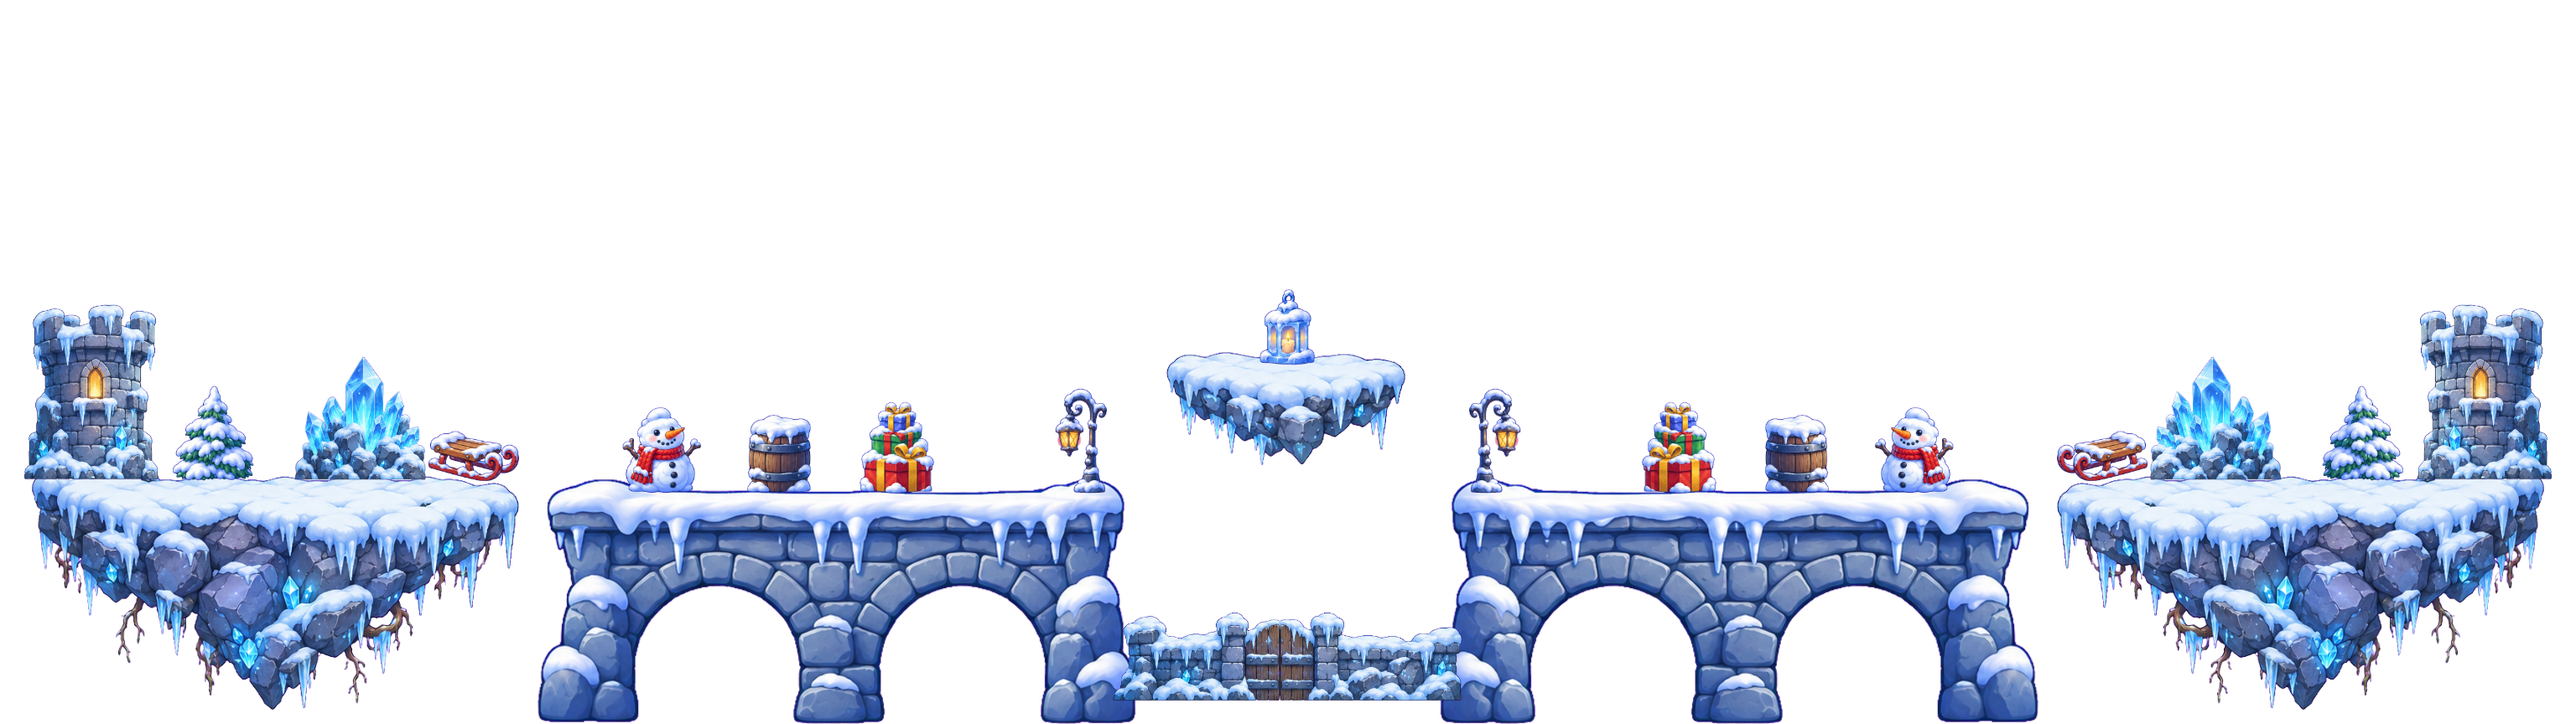
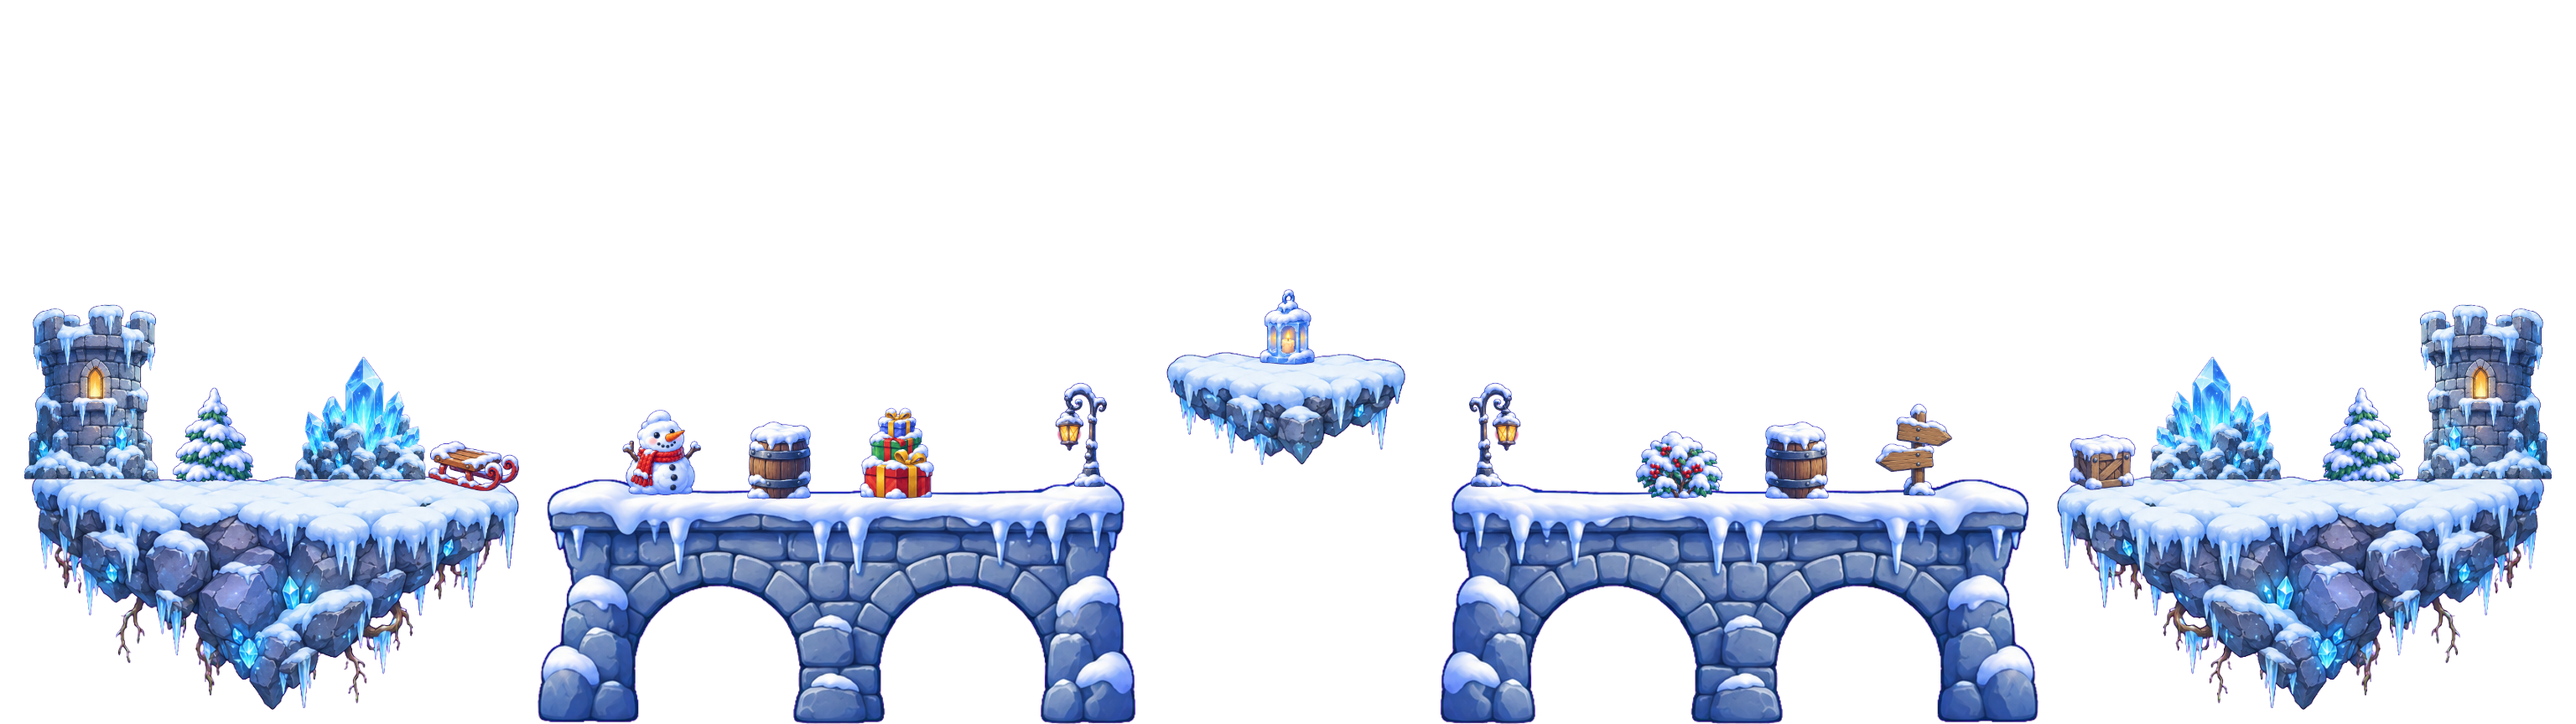
Mapas: fundo nunca repete, objetos assentam no chão e validador de layout
Claude-Session: https://claude.ai/code/session_01Qghigksom72nNn7R5uKPfk

diff --git a/src/game/environment.ts b/src/game/environment.ts
@@ -280,20 +280,19 @@ export class EnvironmentRenderer {
   if(this.definition.id==='celestial')for(let i=0;i<count(2,3,4);i++)this.cloud(c,-100+((i*491+time*.012)%(W+400)),865+i%3*15,230,.62,1.12);
   c.restore();c.save();applyCamera(c,camera,.85);this.atmosphere(c,time);c.restore();
  }
- /** A single painted backdrop, cover-fitted to the bottom edge so its abyss sits under the playfield. It barely drifts with the camera. */
+ /** One painted backdrop, never tiled or repeated: fitted to the bottom edge so its abyss sits under the playfield.
+  * A wide panorama scrolls at the depth that shows it exactly once across the map; a narrow one barely drifts. */
  private drawBackdrop(c:CanvasRenderingContext2D,camera:CameraState){
-  const image=this.art,margin=48,depth=.1;if(!image.naturalWidth)return;
-  const travel=(this.width-W)*depth,layer=this.cached('backdrop',W+travel+margin*2,H+margin*2,ctx=>{const width=W+travel+margin*2,scale=Math.max(width/image.naturalWidth,(H+margin*2)/image.naturalHeight),height=image.naturalHeight*scale;smoothImages(ctx);ctx.drawImage(image,(width-image.naturalWidth*scale)/2,H+margin*2-height,image.naturalWidth*scale,height);});
-  c.save();applyCamera(c,camera,depth);c.drawImage(layer,-margin,-margin);c.restore();
-  const mid=this.mid;
-  if(mid?.naturalWidth){
-   // Painted mid-distance band, tiled across the world, between backdrop and terrain.
-   const midDepth=.5,height=H,width=mid.naturalWidth*height/mid.naturalHeight,tile=this.cached('mid',width,height,ctx=>{smoothImages(ctx);ctx.drawImage(mid,0,0,width,height);});
-   c.save();applyCamera(c,camera,midDepth);const view=cameraBounds(camera,midDepth);
-   // Every other copy is mirrored, so neighbouring edges always match.
-   for(let x=Math.floor(view.x/width)*width;x<view.x+view.width;x+=width){if(Math.round(x/width)%2){c.save();c.translate(x+width,MID_OFFSET);c.scale(-1,1);c.drawImage(tile,0,0);c.restore();}else c.drawImage(tile,x,MID_OFFSET);}c.restore();
-  }
+  this.drawOnce(c,camera,'backdrop',this.art,0);
+  const mid=this.mid;if(mid)this.drawOnce(c,camera,'mid',mid,MID_OFFSET);
   c.save();c.fillStyle=`rgba(7,13,24,${PARALLAX_SHADE_ALPHA})`;c.fillRect(0,0,W,H);c.restore();
+ }
+ private drawOnce(c:CanvasRenderingContext2D,camera:CameraState,key:string,image:HTMLImageElement,offset:number){
+  if(!image.naturalWidth)return;
+  const margin=48,span=this.width-W,fit=(H+margin*2)/image.naturalHeight,natural=image.naturalWidth*fit-W-margin*2;
+  const depth=span>0?Math.min(1,Math.max(.1,natural/span)):.1,travel=span*depth,width=W+travel+margin*2;
+  const layer=this.cached(key,width,H+margin*2,ctx=>{const scale=Math.max(fit,width/image.naturalWidth),height=image.naturalHeight*scale;smoothImages(ctx);ctx.drawImage(image,(width-image.naturalWidth*scale)/2,H+margin*2-height,image.naturalWidth*scale,height);});
+  c.save();applyCamera(c,camera,depth);c.drawImage(layer,-margin,offset-margin);c.restore();
  }
  private drawLoading(c:CanvasRenderingContext2D){
   c.save();c.globalAlpha=1;c.fillStyle=this.definition.lighting.sky;c.fillRect(0,0,W,H);

diff --git a/docs/maps-kit.md b/docs/maps-kit.md
@@ -5,8 +5,8 @@ Primeiro mapa feito assim: `snow` / Sonho Nevado (17/10/2026). Plano completo em
 ## Como funciona
 
 - **Largura**: um mapa pode ter mais de uma tela (`dimensions.width`, `width` no layout; o Sonho Nevado tem 3072 px, duas telas). A altura é sempre 864. A câmera rola, o minimapa fica largo e baixo, e a física lê a largura do próprio terreno. Spawns de 1x1 ficam entre 900 e 1200 px de distância (teste).
-- **Fundo**: uma imagem grande e fixa (`art.background`), que não colide. Substitui o céu, a paisagem e o meio procedurais e quase não se move com a câmera.
-- **Meio** (opcional, `art.mid`, `mid` no layout): faixa pintada sobre magenta, repetida e espelhada pela largura do mundo a meia velocidade da câmera.
+- **Fundo**: uma imagem única (`art.background`), que não colide e **nunca se repete**. Em mapa largo ela é um panorama pintado em duas metades (`background: ["esquerda.png","direita.png"]` no layout), unidas com degradê (`backgroundBlend`, padrão 240 px). No jogo ela rola na velocidade que mostra o panorama inteiro uma vez de ponta a ponta; uma imagem estreita só desliza um pouco.
+- **Meio** (opcional, `art.mid`, `mid` no layout): camada pintada sobre magenta, também desenhada uma única vez. Prefira pôr o meio dentro do panorama.
 - **Terreno**: uma ou mais folhas de peças (`sheets` no layout; cada item diz `sheet` e `piece`). Objetos (boneco de neve, barril, poste) são peças também: sólidos e destrutíveis, porque só aparece o que tem colisão. Folha pintadas pelo Codex sobre magenta `#FF00FF`. `npm run build:map -- --map=<id>` recorta as peças, numera (linha de cima, depois de baixo, da esquerda para a direita), coloca cada uma segundo `scripts/map-layouts/<id>.json` (`mirror` cria o lado do outro time espelhado) e grava:
   - `public/assets/maps/<id>/terrain-world.png` e `background.webp`, mais `public/assets/maps/<id>-preview.png`;
   - `shared/generated/<id>Terrain.ts`: a colisão tirada do alfa de cada peça (forma `cells`, células de 3 px). O que está pintado é chão.
@@ -21,3 +21,25 @@ Primeiro mapa feito assim: `snow` / Sonho Nevado (17/10/2026). Plano completo em
 2. Gerar pelo Codex no PC (`codex exec` com a referência anexada) em `test-results/codex-maps/<id>/`.
 3. Escrever `scripts/map-layouts/<id>.json`, rodar `npm run build:map -- --map=<id>` e olhar o relatório.
 4. Adicionar o mapa em `shared/maps.ts` (`MAP_IDS` e `MAP_DEFINITIONS`) usando as regiões geradas. `tests/maps.test.ts` confere spawns espelhados, apoiados e com espaço.
+
+## Regras do layout
+
+- Objetos (`objetos`) usam `"rest": true`: o script os derruba sobre o chão já colocado abaixo de `top` e afunda `sink` px (padrão 8) na neve. Nada flutua por erro.
+- `mirrorAs` troca a peça do lado espelhado (ex.: boneco de neve de um lado, placa do outro), para os dois lados não ficarem iguais.
+- A ordem importa: peças de terreno primeiro, objetos depois.
+
+## Análise antes de mostrar ao usuário
+
+O `build:map` imprime AVISO para cada problema; corrija todos antes de mostrar:
+- objeto flutuando (base sem chão embaixo);
+- peça escondida embaixo de outra, com ar entre elas (ex.: um portão debaixo da plataforma do meio): sem motivo, não entra;
+- emenda do panorama com diferença média de cor acima de 28: gerar a metade de novo;
+- fundo estreito para a largura do mapa (vai cortar o céu no mapa inteiro);
+- peça cortada pela borda da folha.
+
+Depois olhe `montage.png` (o mapa inteiro, que é a imagem para mostrar ao usuário) com estas perguntas: cada coisa tem motivo para estar ali (portão leva a algum lugar, ponte liga duas margens, poste fica em cima de chão)? Algo se repete à vista? As pontes e torres têm base ou são claramente ilhas no céu? Os dois lados estão justos sem serem cópia um do outro?
+
+## Lições dos prompts
+
+- Fundo em duas metades: cada metade deixa 20% do lado da emenda só com céu, nuvem e névoa; a segunda recebe a primeira como referência e é proibida de repetir ou espelhar elementos.
+- Montes de neve sobre pontes parecem nuvens: não usar. Peças sem função (portões, muros soltos) não entram no layout.
